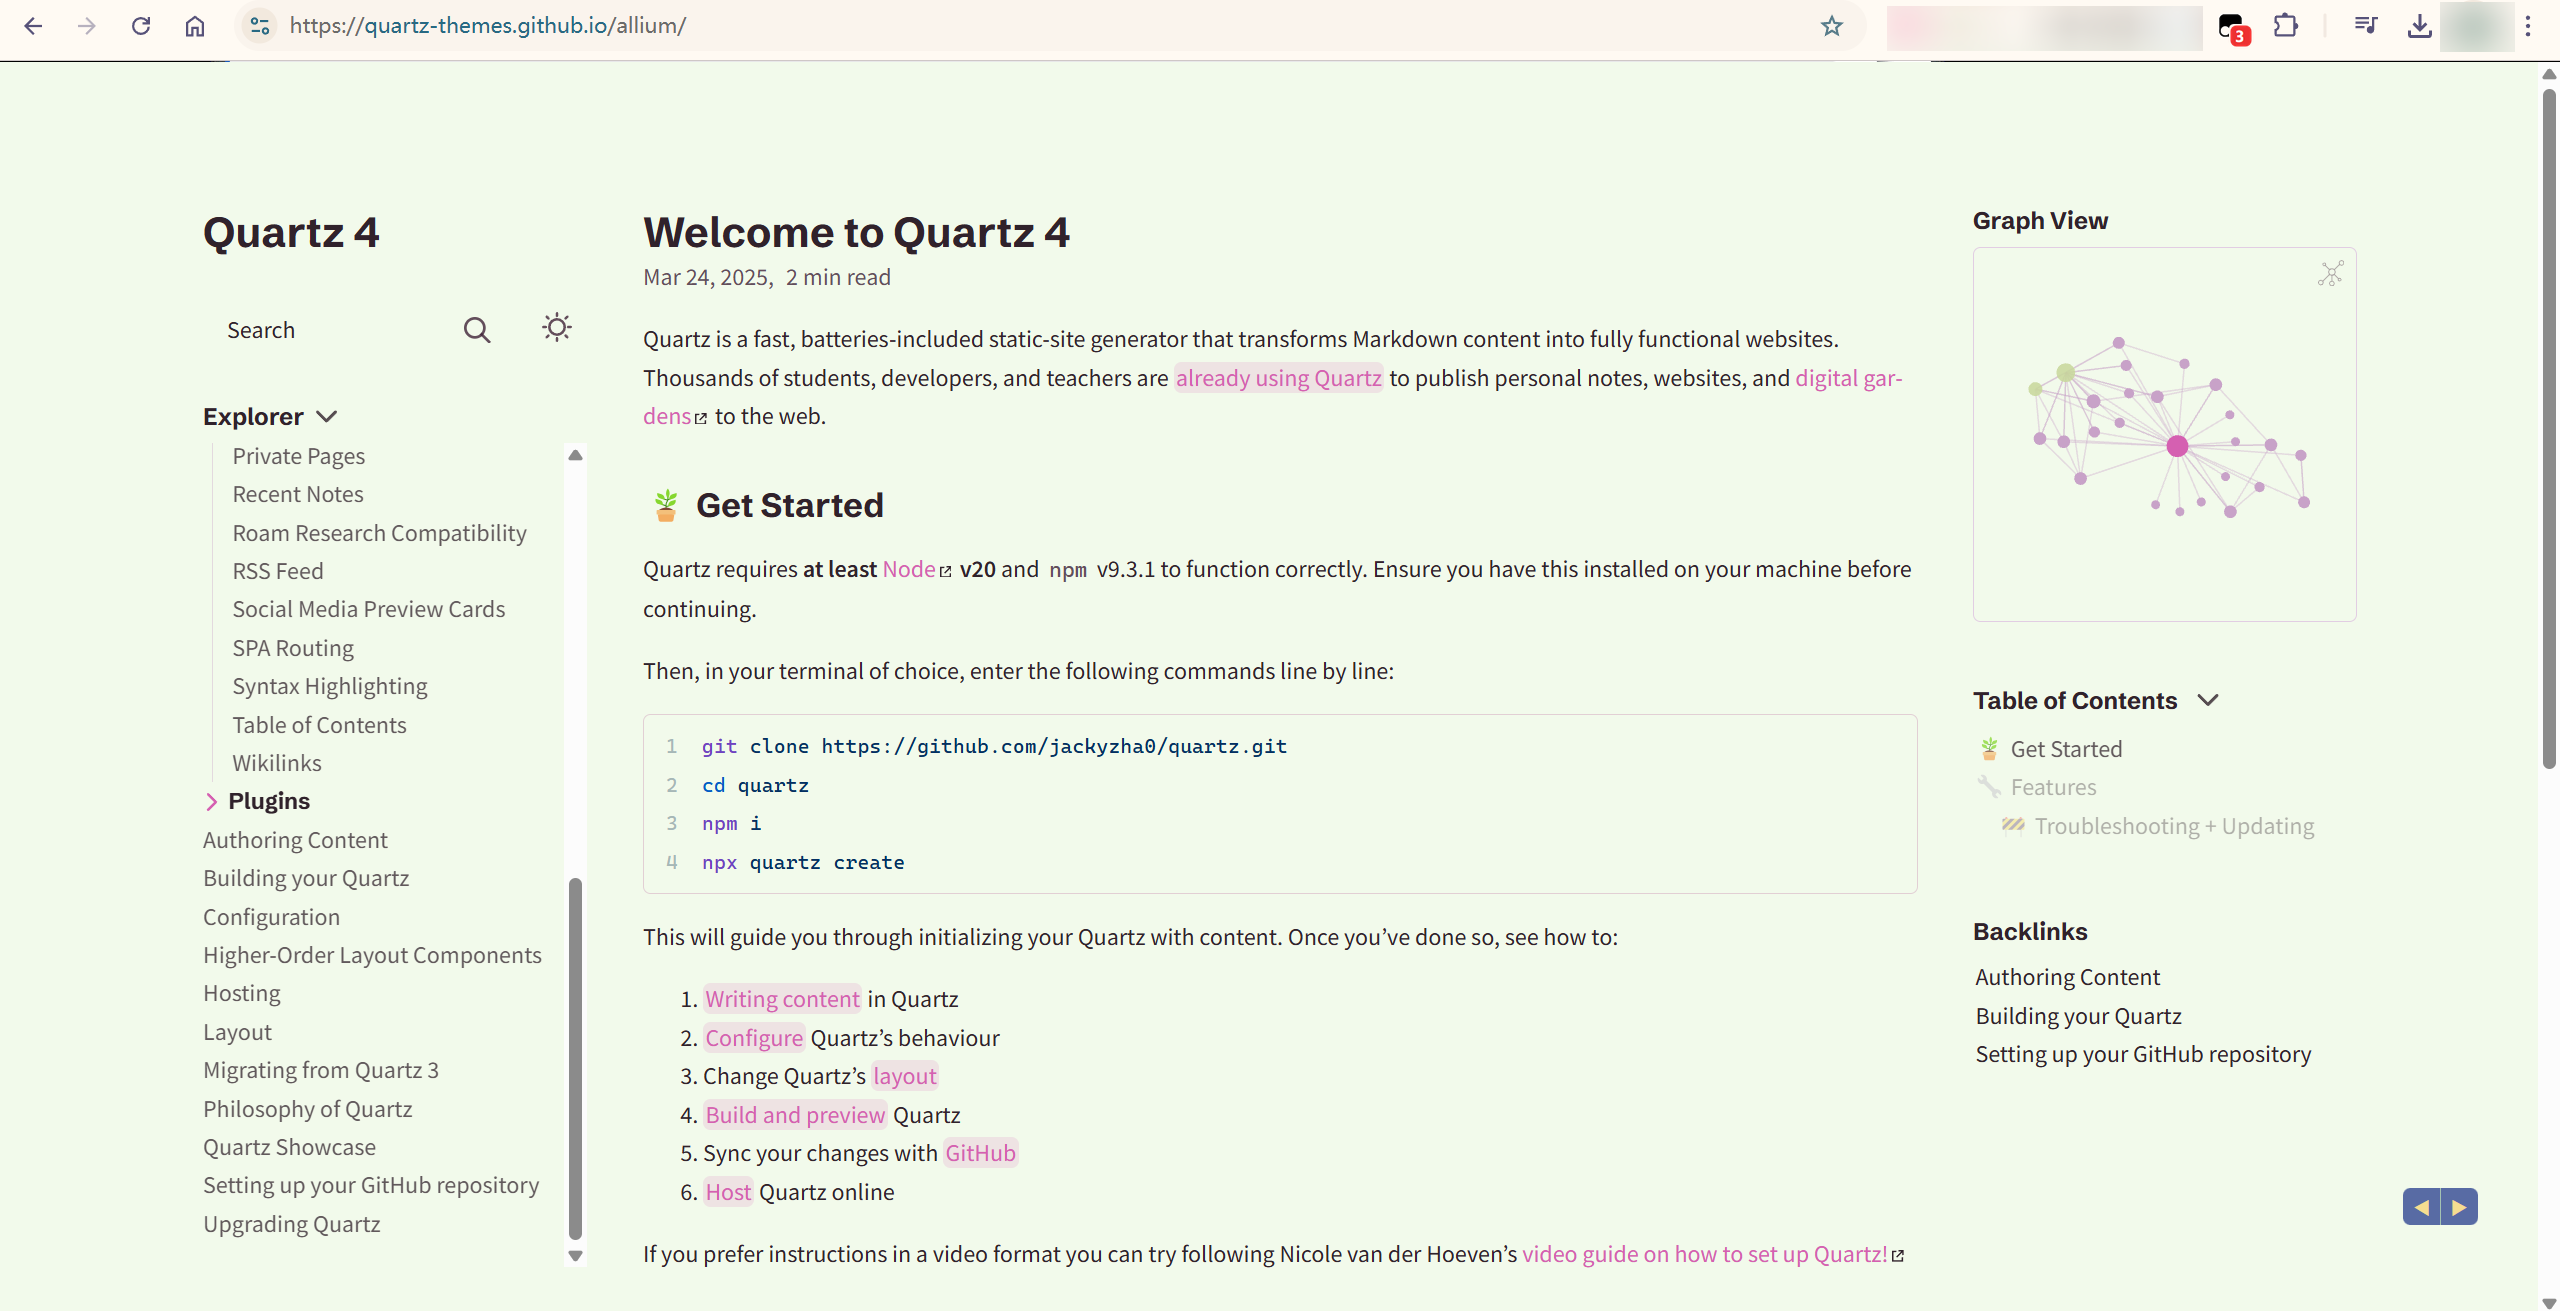
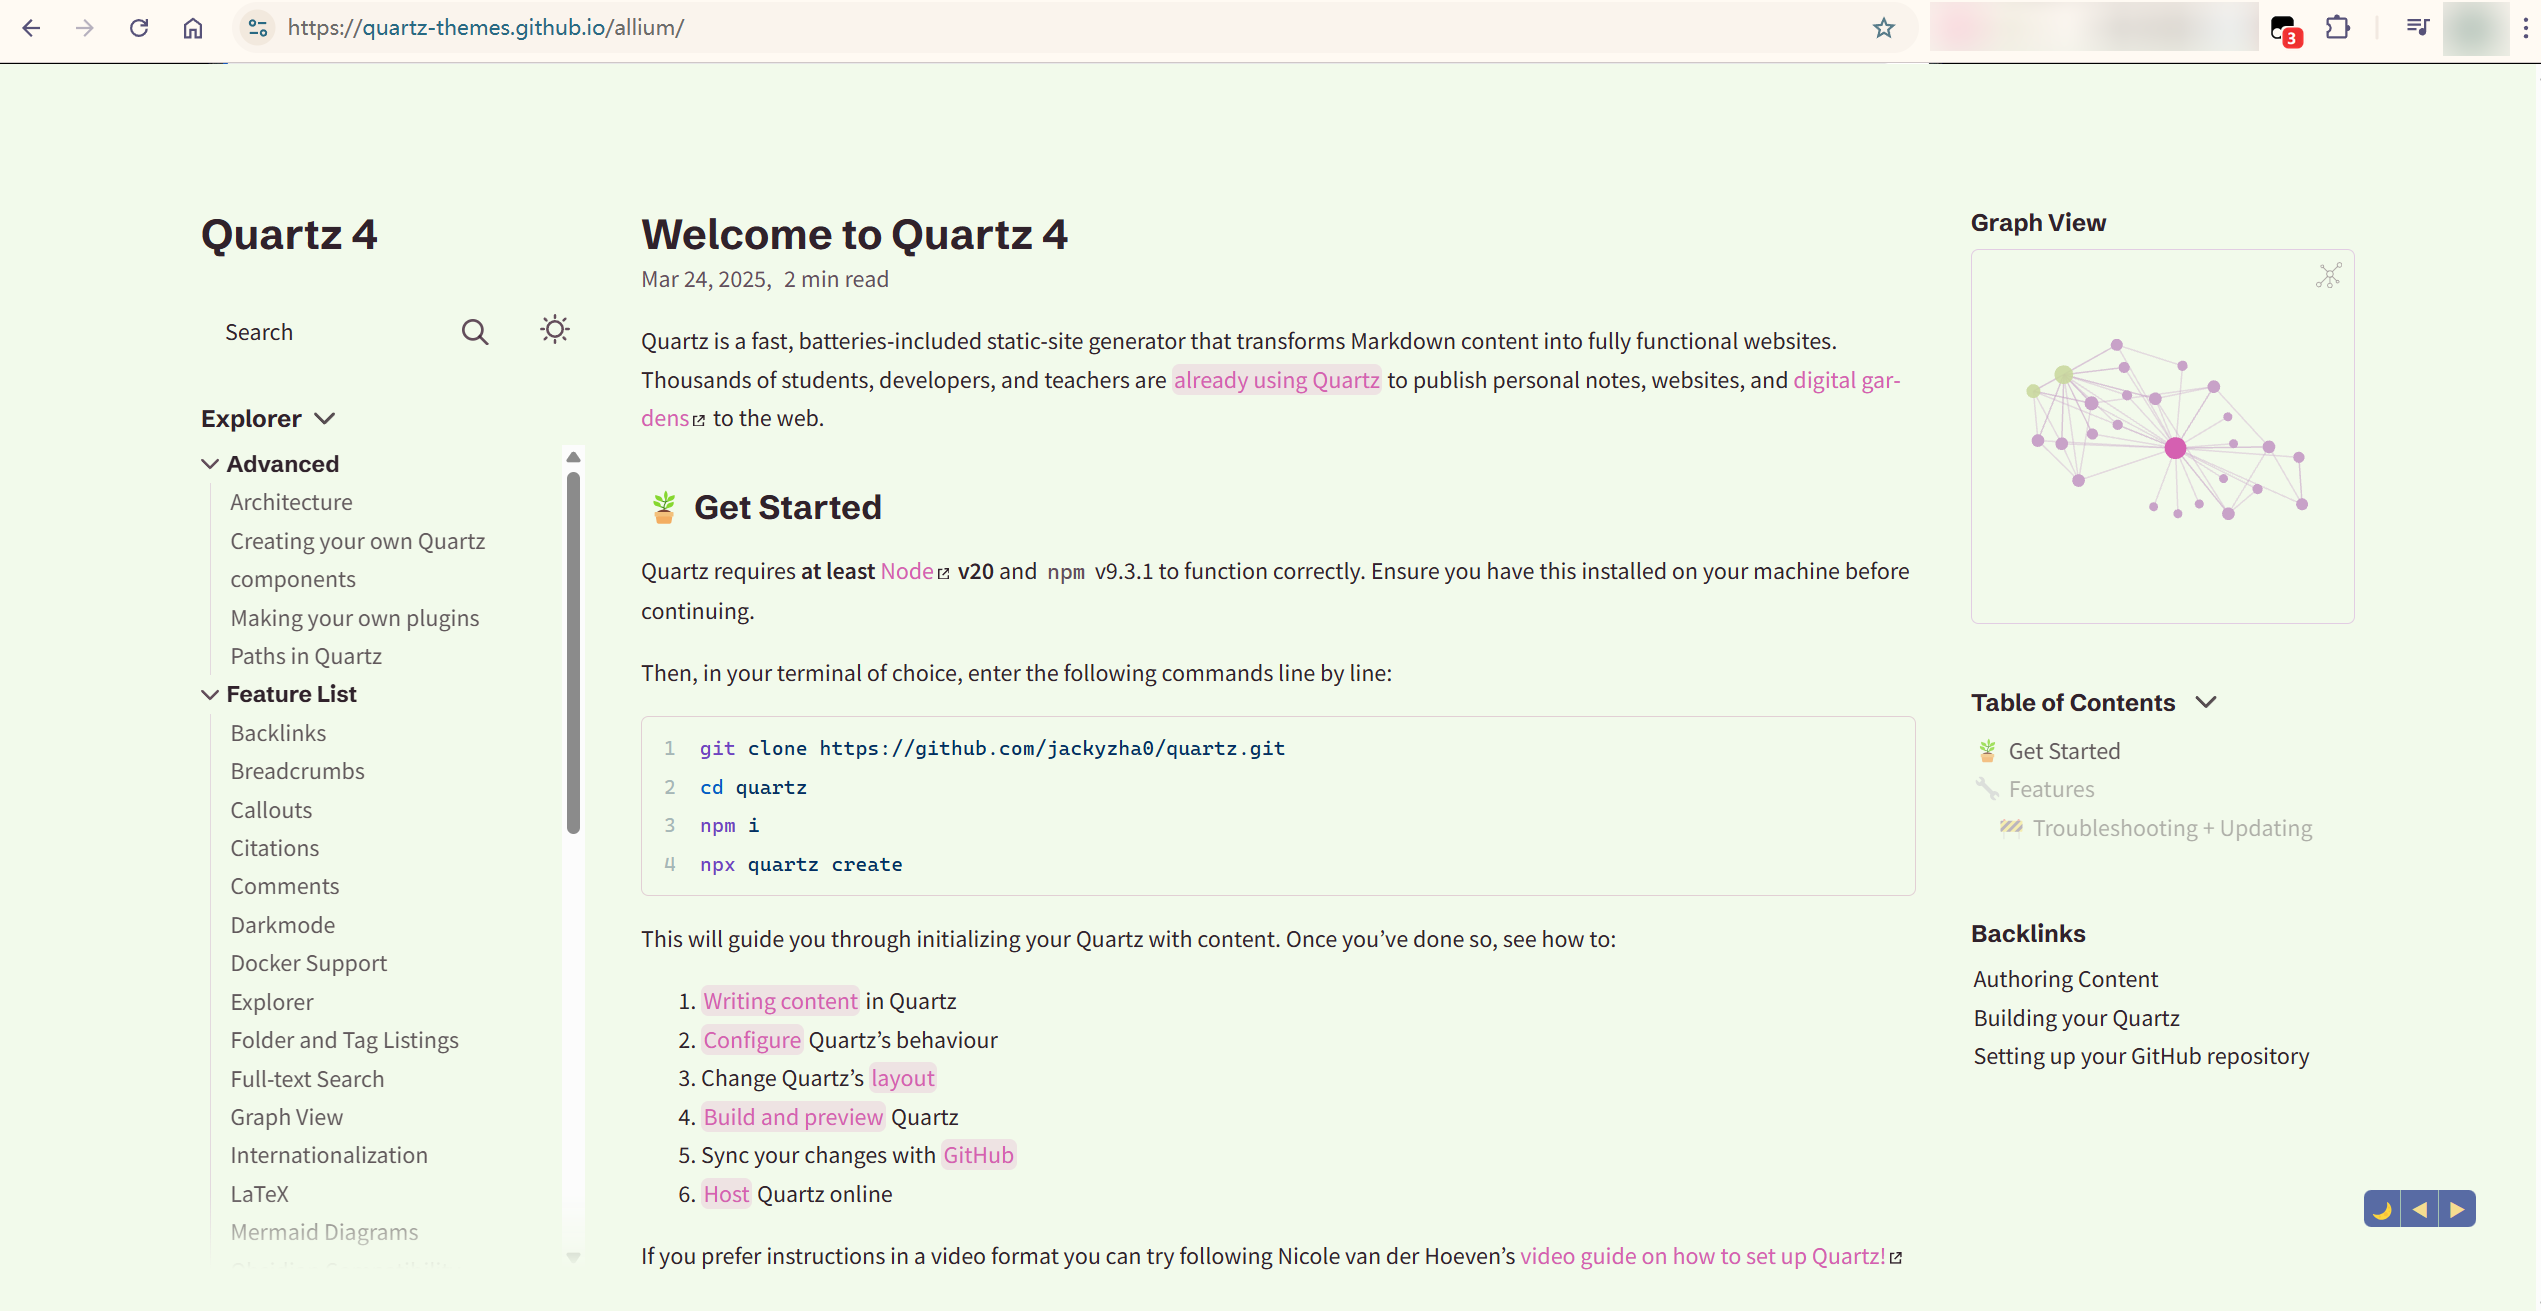
20250328 chore: update README.md & screenshots

diff --git a/README.md b/README.md
@@ -2,7 +2,7 @@
 
 [English](README.md) | [Chinese](README.zh_CN.md)
 
-Switch between different theme effects of [quartz-themes](https://github.com/saberzero1/quartz-themes/tree/master) quickly by using the '◀' and '▶' buttons.
+Switch between different theme effects of [quartz-themes](https://github.com/saberzero1/quartz-themes/tree/master) quickly by using the '◀', '▶' and '🌙/🔆' buttons.
 
 ## Installation
 
@@ -14,16 +14,18 @@ Switch between different theme effects of [quartz-themes](https://github.com/sab
 1. Enable this script.
 2. Navigate to [quartz themes preview: 80s-neon](https://quartz-themes.github.io/80s-neon)
 3. Click on the '◀' and '▶' buttons to switch between different theme effects.
+4. Toggle between light and dark mode with '🌙/🔆' button.
 
 ## Features
 
 - Quickly switch between different themes of quartz-themes.
 - Use the convenient '◀' and '▶' buttons for navigation.
+- Toggle between light and dark mode using the '🌙/🔆' button.
 - Easily preview different quartz-themes themes to help you find your favorite one.
 
 ## Screenshots
 
-Please pay attention to the two buttons in the bottom right corner.
+Please pay attention to the three buttons in the bottom right corner.
 ![buttons](./screenshots/buttons.png)
 ![Screenshot 1](./screenshots/screenshot1.png)
 ![Screenshot 2](./screenshots/screenshot2.png)

diff --git a/README.zh_CN.md b/README.zh_CN.md
@@ -2,7 +2,7 @@
 
 [英文](README.md) | [中文](README.zh_CN.md)
 
-通过使用 '◀' 和 '▶' 按钮，快速预览 [quartz-themes](https://github.com/saberzero1/quartz-themes/tree/master) 的不同主题效果。
+通过使用 '◀'，'▶'和'🌙/🔆' 按钮，快速预览 [quartz-themes](https://github.com/saberzero1/quartz-themes/tree/master) 的不同主题效果。
 
 ## 安装
 
@@ -14,16 +14,18 @@
 1. 启用此脚本。
 2. 打开 [quartz-themes主题预览：80s-neon](https://quartz-themes.github.io/80s-neon)。
 3. 点击 '◀' 和 '▶' 按钮，切换不同的主题以方便快捷地预览不同的主题效果。
+4. 点击 '🌙/🔆' 按钮，在明亮和黑暗模式下切换。
 
 ## 特点
 
 - 快速切换 quartz-themes 的不同主题。
 - 使用便捷的 '◀' 和 '▶' 按钮进行导航。
+- 使用 '🌙/🔆' 按钮切换明亮和黑暗模式。
 - 可以快捷地预览不同的 quartz-themes 主题，方便筛选出你所喜欢的主题。
 
 ## 截图
 
-请注意右下角的两个按钮。
+请注意右下角的三个按钮。
 ![按钮](./screenshots/buttons.png)
 ![截图 1](./screenshots/screenshot1.png)
 ![截图 2](./screenshots/screenshot2.png)
